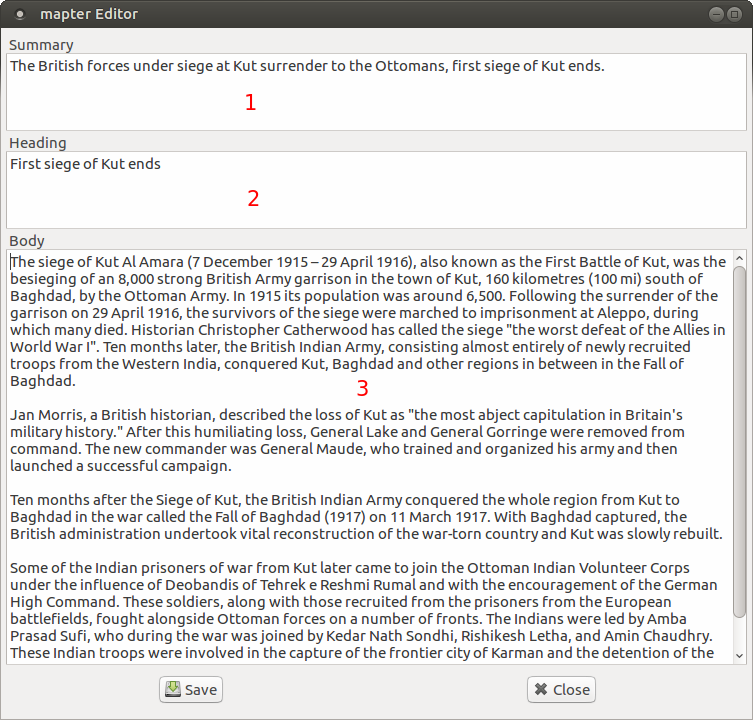
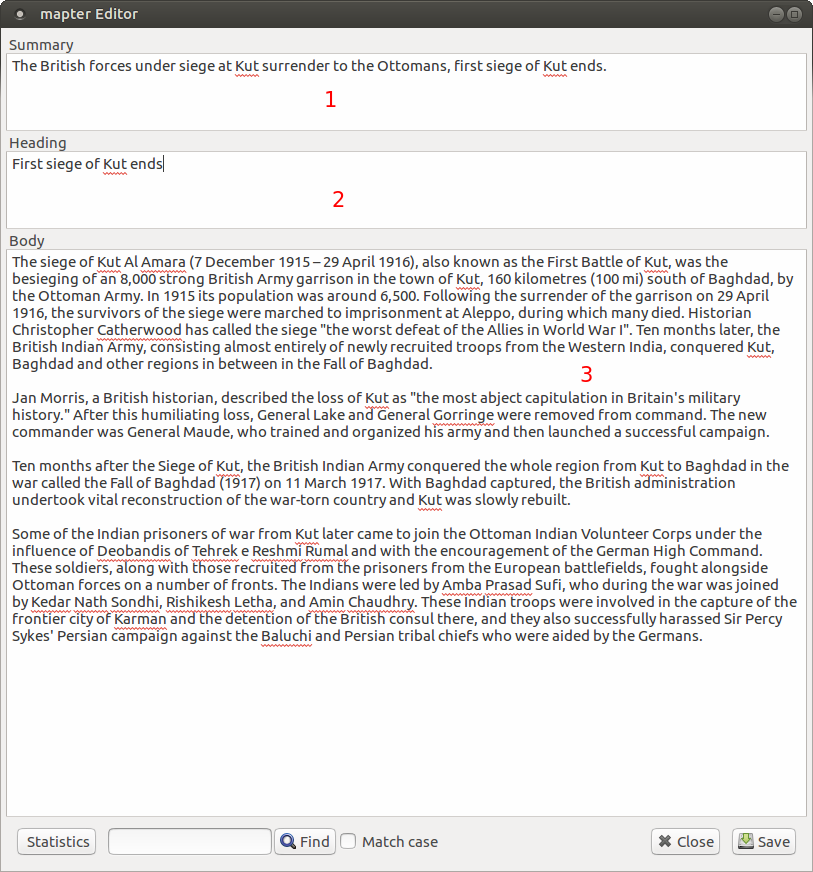
Documentation update

diff --git a/README.md b/README.md
@@ -2,11 +2,7 @@
 
 ## Update information
 
-* v0.5.3 - Small change to "save" logic
-* v0.5.2 - Small layout changes & word count statistics
-* v0.5.1 - Urgent bug fix
-* v0.5 - Tree control for notes tab
-* v0.4 - Addition of cell background selector
+* v0.6 - Addition of spell checker, search and undo/redo
 
 ## Introduction
 
@@ -18,13 +14,13 @@ There are many, many writing tools already available but very few that support t
 * Had lots of features that I didn't want, e.g. [bibisco](https://www.bibisco.com/)
 * Online only or use web technologies which I didn't want, e.g. [Wavemaker](https://wavemaker.co.uk)
 
-It is not my intention to add word processing features like text markup, spell checking, grammar checking etc. This is designed as a no-distractions planning and writing tool. However tools like [Markdown](https://en.wikipedia.org/wiki/Markdown) or [LaTeX](https://www.latex-project.org/) could be used to format and typeset the export if necessary.
+It is not my intention to add word processing features like text markup, grammar checking etc. This is designed as a no-distractions planning and writing tool. However tools like [Markdown](https://en.wikipedia.org/wiki/Markdown) or [LaTeX](https://www.latex-project.org/) could be used to format and typeset the export if necessary.
 
 _( The name comes from a portmanteau of "mapping" and "chapter" and was created using an [online name generator](https://namelix.com/) )_
 
 ## Current Status
 
-The current version ( 0.5.4 ) could generously be called a minimum viable product ( MVP ) and allows the creation and editing of a full work. The main limitation is that the editor is extremely basic and lacks common features like "search/replace".
+The current version is a basic minimum viable product ( MVP ) which allows the creation and editing of a full work.
 
 ## Building
 
@@ -81,6 +77,8 @@ This has three sections:
 1. Text that appears on the front grid
 1. Header text for that section in the document export
 1. Body text for that section in the document export
+
+Words that fail the automated spell check will be underlined in red. Right clicking on one of these words will present a list of alternatives. Undo/redo ( Ctrl Z / Ctrl-Shift Z ) is also now available in all three text editing sections. The search facility only operates on the "Body" section.
 
 ### Changing the size of the grid
 
@@ -149,5 +147,4 @@ Trace and debugging information can be show on the standard output by using the 
 
 Future planned developments include:
 
-* Improved Editor with features like search/replace and undo. At the moment the [GTKSourceView](https://gitlab.gnome.org/GNOME/gtksourceview) component looks a likely candidate.
 * A method of moving or swapping the contents of cells without a lot of cutting & pasting
